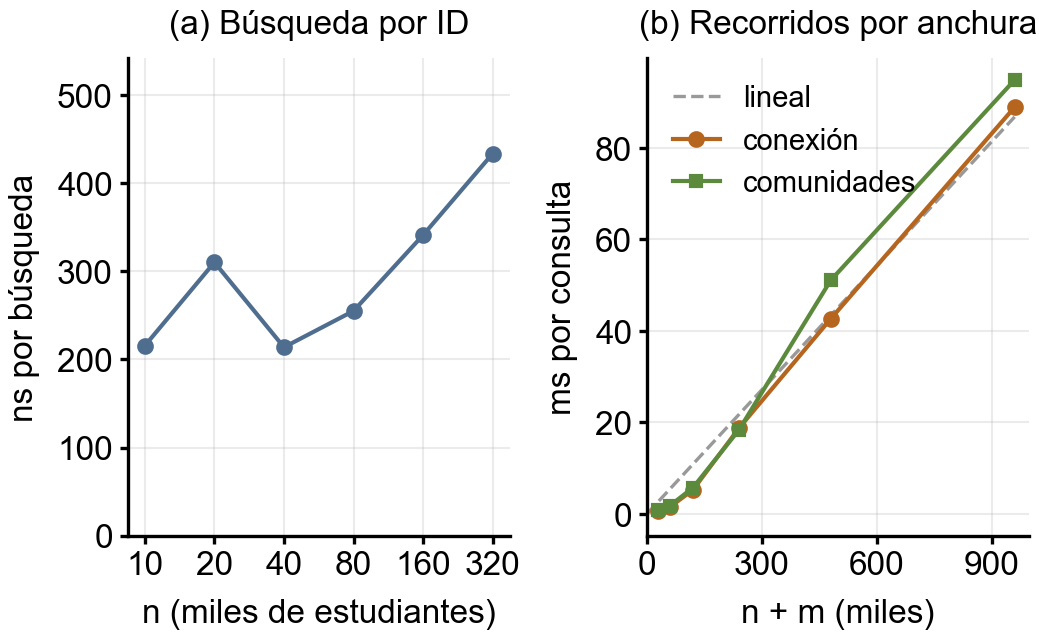
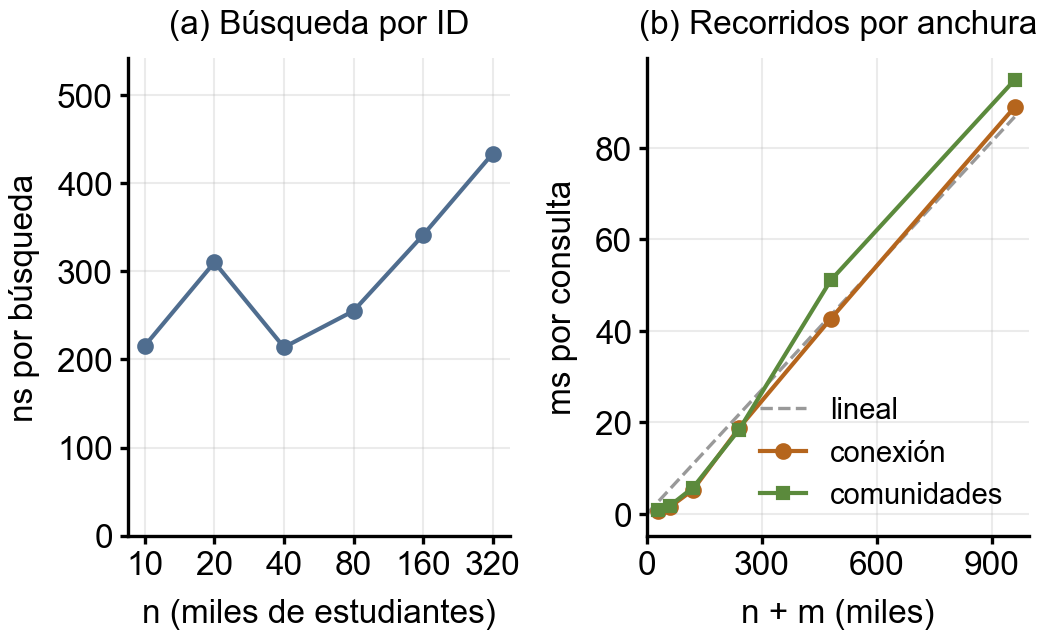
Gráfica de mediciones: leyenda en la esquina libre

diff --git a/mediciones/graficar.py b/mediciones/graficar.py
@@ -41,7 +41,7 @@ der.set_xlim(0, max(nm) * 1.04)
 der.set_xlabel("n + m (miles)")
 der.set_ylabel("ms por consulta")
 der.set_title("(b) Recorridos por anchura", fontsize=8)
-der.legend(frameon=False, fontsize=7, loc="upper left", handlelength=1.6)
+der.legend(frameon=False, fontsize=7, loc="lower right", handlelength=1.6)
 
 for ax in (izq, der):
     ax.spines["top"].set_visible(False)
